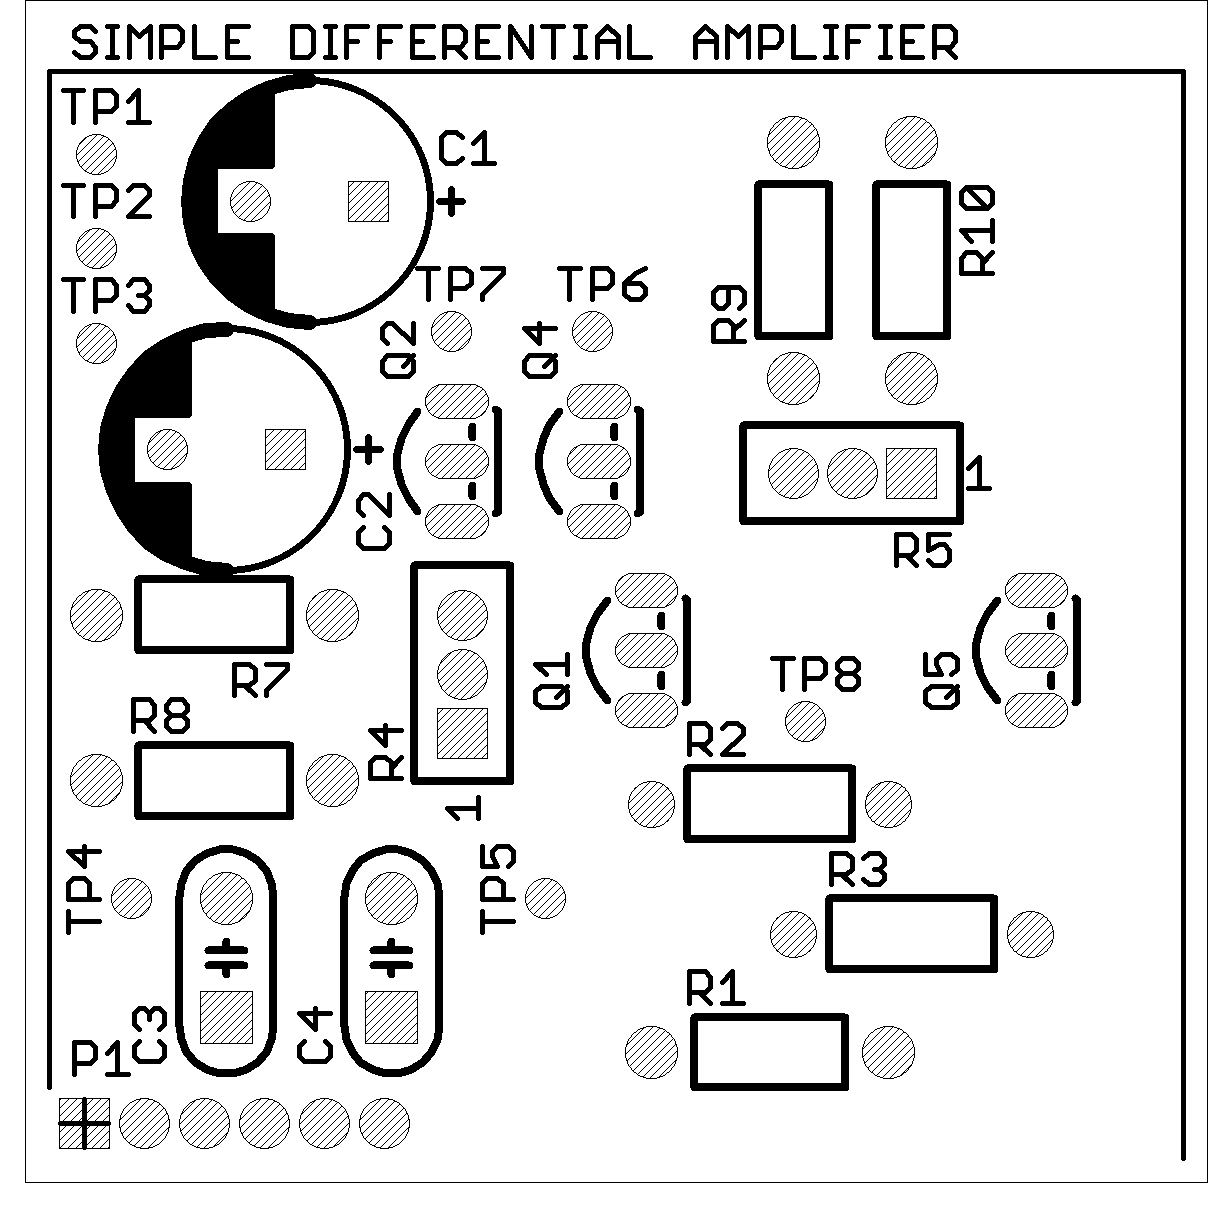
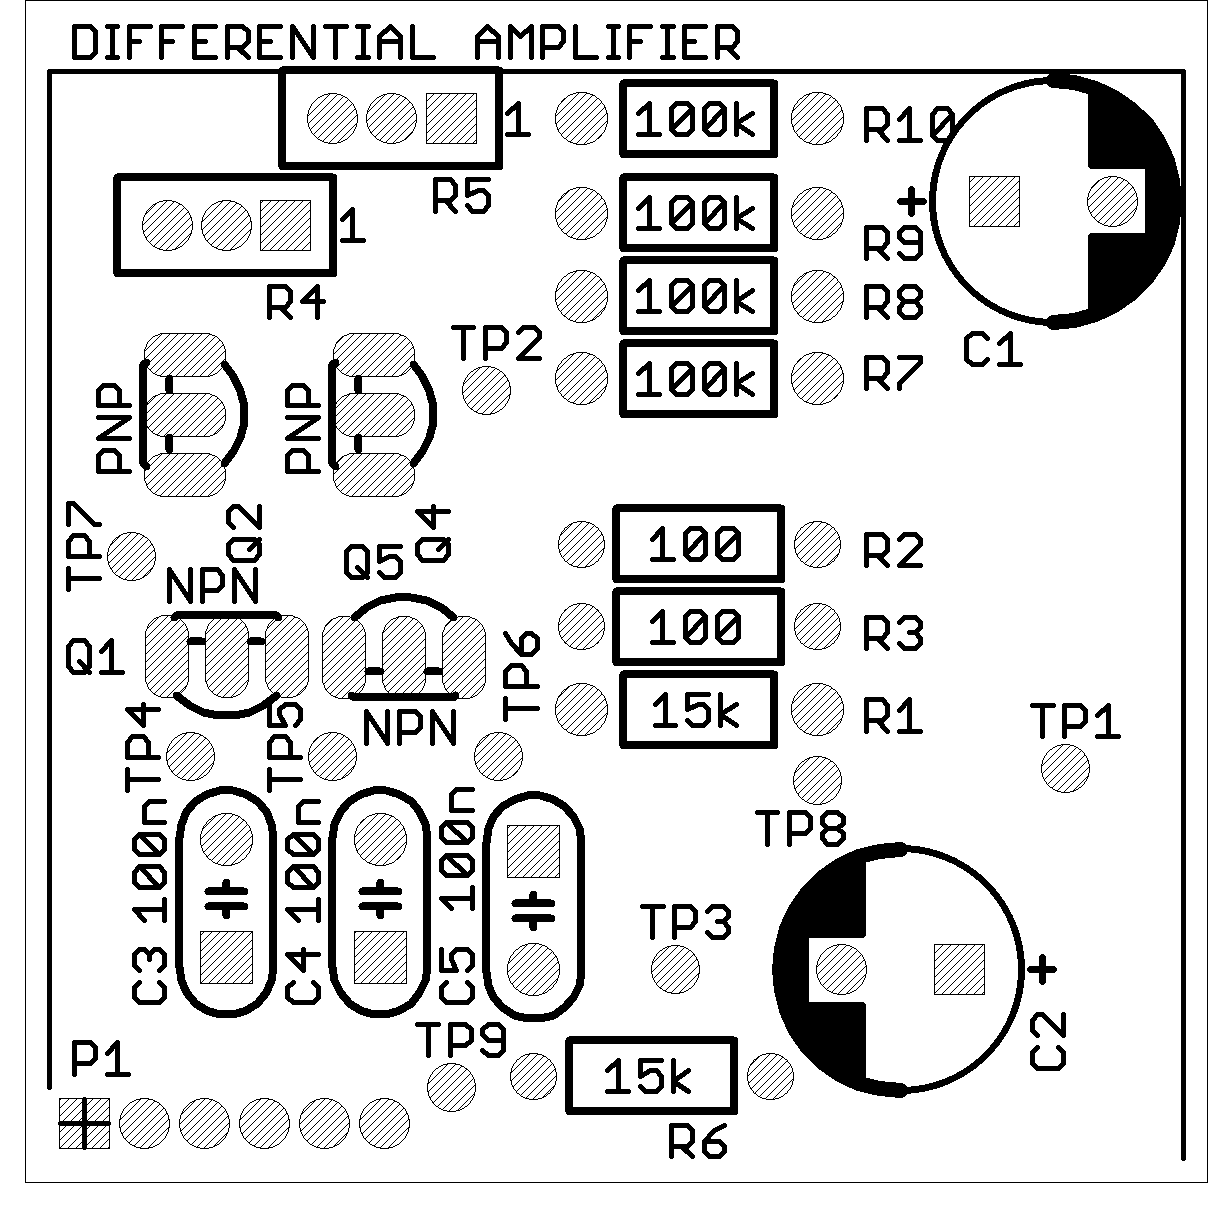
Rev A1-03

diff --git a/md/04B-358_A1-03_sch.md b/md/04B-358_A1-03_sch.md
@@ -1,0 +1,124 @@
+# Schematic Export (Markdown)
+
+**ULP Revision Date:** 20250907  
+**Statement:** This document is intended for use in AI training. 
+
+# Circuit Identification
+
+| Field            | Value |
+| ---------------- | ----- |
+| Part Number      | 04B-358 |
+| Revision         | A1-03 |
+| Title            | DIFFERENTIAL AMPLIFIER |
+| PCB Dimensions   | 50 mm x 50 mm |
+| Pieces per Panel | 4 |
+
+# Netlist
+
+| Net | Part | Pad | Pin | Sheet |
+|-----|------|-----|-----|-------|
+| GND | P1 | 1 | GND (1) | 1 |
+| GND | C1 | 2 | 2 | 1 |
+| GND | C2 | 1 | 1 | 1 |
+| GND | TP1 | 1 | 1 | 1 |
+| GND | R6 | 1 | 1 | 1 |
+| N$1 | R1 | 2 | 2 | 1 |
+| N$1 | R2 | 2 | 2 | 1 |
+| N$1 | R3 | 1 | 1 | 1 |
+| N$1 | TP8 | 1 | 1 | 1 |
+| N$2 | P1 | 6 | OUT (6) | 1 |
+| N$2 | C5 | 2 | 2 | 1 |
+| N$2 | R6 | 2 | 2 | 1 |
+| N$2 | TP9 | 1 | 1 | 1 |
+| N$3 | Q1 | C | C | 1 |
+| N$3 | Q2 | C | C | 1 |
+| N$3 | Q2 | B | B | 1 |
+| N$3 | Q4 | B | B | 1 |
+| N$3 | TP7 | 1 | 1 | 1 |
+| N$5 | Q1 | E | E | 1 |
+| N$5 | R2 | 1 | 1 | 1 |
+| N$6 | Q5 | E | E | 1 |
+| N$6 | R3 | 2 | 2 | 1 |
+| N$7 | Q5 | B | B | 1 |
+| N$7 | R5 | 2 | 2 | 1 |
+| N$7 | TP5 | 1 | 1 | 1 |
+| N$7 | C4 | 2 | 2 | 1 |
+| N$8 | Q1 | B | B | 1 |
+| N$8 | R4 | 2 | 2 | 1 |
+| N$8 | TP4 | 1 | 1 | 1 |
+| N$8 | C3 | 2 | 2 | 1 |
+| N$9 | Q5 | C | C | 1 |
+| N$9 | C5 | 1 | 1 | 1 |
+| N$9 | TP6 | 1 | 1 | 1 |
+| N$9 | Q4 | C | C | 1 |
+| N$12 | R4 | 3 | 3 | 1 |
+| N$12 | R7 | 1 | 1 | 1 |
+| N$13 | R4 | 1 | 1 | 1 |
+| N$13 | R8 | 2 | 2 | 1 |
+| N$14 | R5 | 3 | 3 | 1 |
+| N$14 | R9 | 1 | 1 | 1 |
+| N$15 | R5 | 1 | 1 | 1 |
+| N$15 | R10 | 2 | 2 | 1 |
+| N$16 | P1 | 4 | IN+ (4) | 1 |
+| N$16 | C3 | 1 | 1 | 1 |
+| N$17 | P1 | 5 | IN- (5) | 1 |
+| N$17 | C4 | 1 | 1 | 1 |
+| V+ | P1 | 2 | V+ (2) | 1 |
+| V+ | Q2 | E | E | 1 |
+| V+ | Q4 | E | E | 1 |
+| V+ | C1 | 1 | 1 | 1 |
+| V+ | R7 | 2 | 2 | 1 |
+| V+ | R9 | 2 | 2 | 1 |
+| V+ | TP2 | 1 | 1 | 1 |
+| V- | P1 | 3 | V- (3) | 1 |
+| V- | R1 | 1 | 1 | 1 |
+| V- | C2 | 2 | 2 | 1 |
+| V- | R8 | 1 | 1 | 1 |
+| V- | R10 | 1 | 1 | 1 |
+| V- | TP3 | 1 | 1 | 1 |
+
+# Partlist
+
+| REF DES | PART TYPE | VALUE / DESCRIPTION |
+|---------|-----------|---------------------|
+| C1 | Capacitor | 47u |
+| C2 | Capacitor | 47u |
+| C3 | Capacitor | 100n |
+| C4 | Capacitor | 100n |
+| C5 | Capacitor | 100n |
+| P1 | Connector (plug) |  |
+| Q1 | Transistor | NPN |
+| Q2 | Transistor | PNP |
+| Q4 | Transistor | PNP |
+| Q5 | Transistor | NPN |
+| R1 | Resistor | 15k |
+| R2 | Resistor | 100 |
+| R3 | Resistor | 100 |
+| R4 | Resistor | 100k |
+| R5 | Resistor | 100k |
+| R6 | Resistor | 15k |
+| R7 | Resistor | 100k |
+| R8 | Resistor | 100k |
+| R9 | Resistor | 100k |
+| R10 | Resistor | 100k |
+| TP1 | Test point |  |
+| TP2 | Test point |  |
+| TP3 | Test point |  |
+| TP4 | Test point |  |
+| TP5 | Test point |  |
+| TP6 | Test point |  |
+| TP7 | Test point |  |
+| TP8 | Test point |  |
+| TP9 | Test point |  |
+
+# Pinout Description Table, P1  
+
+| Pin | Label | Notes |
+|-----|-------|-------|
+| 1 | GND |  |
+| 2 | V+ |  |
+| 3 | V- |  |
+| 4 | IN+ |  |
+| 5 | IN- |  |
+| 6 | OUT |  |
+
